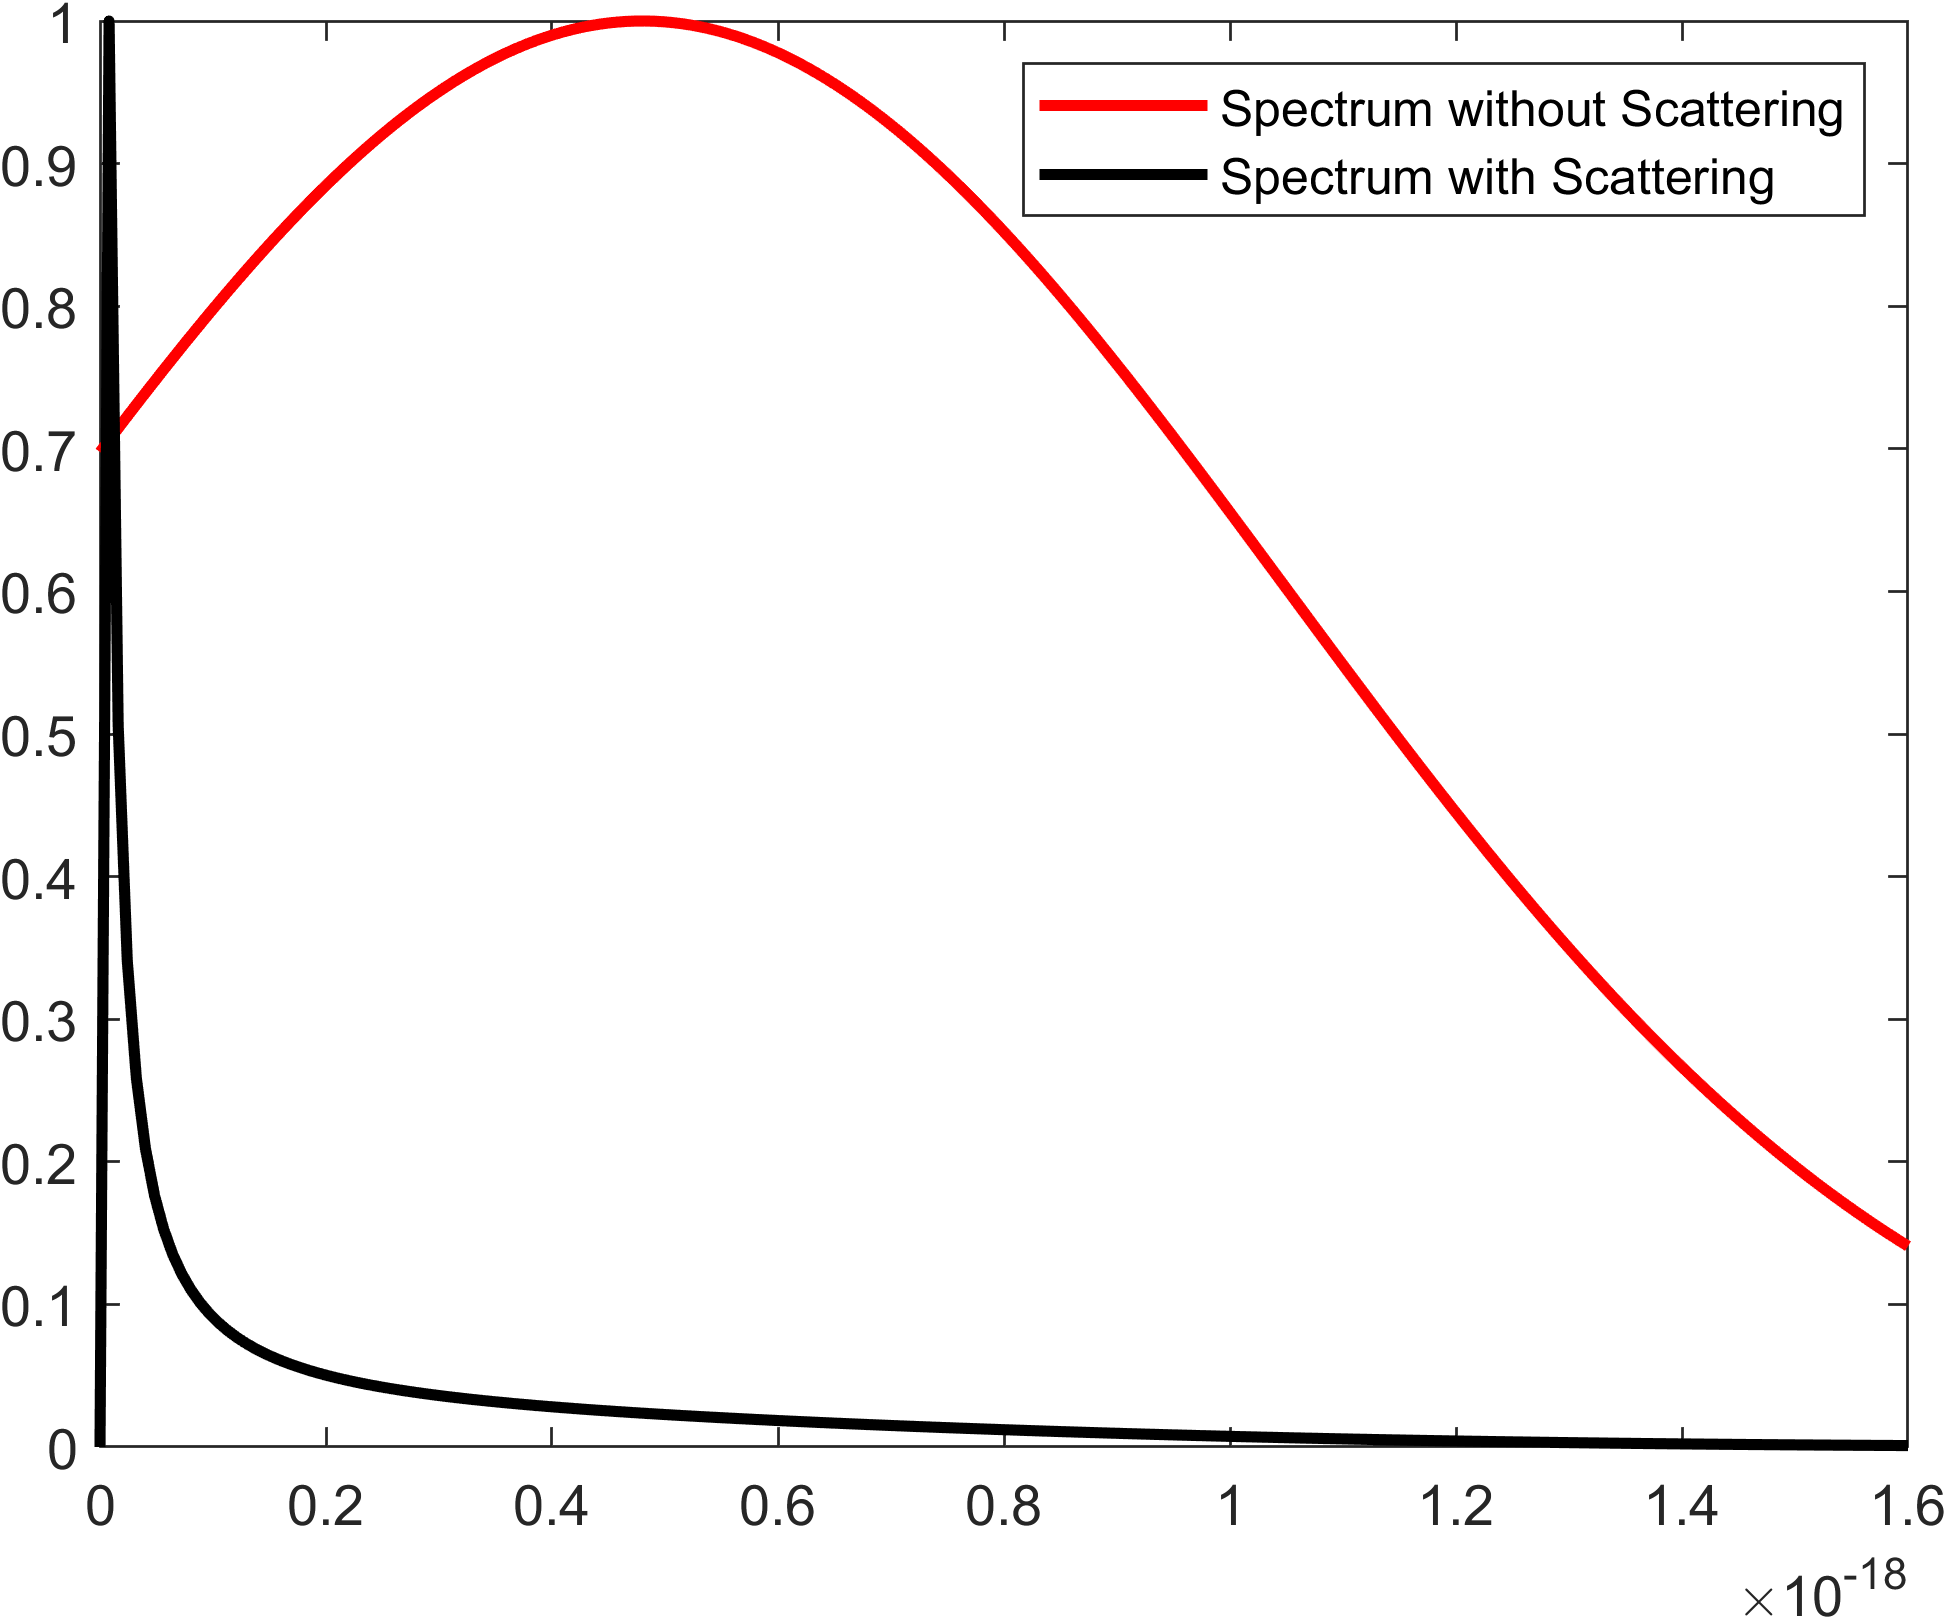
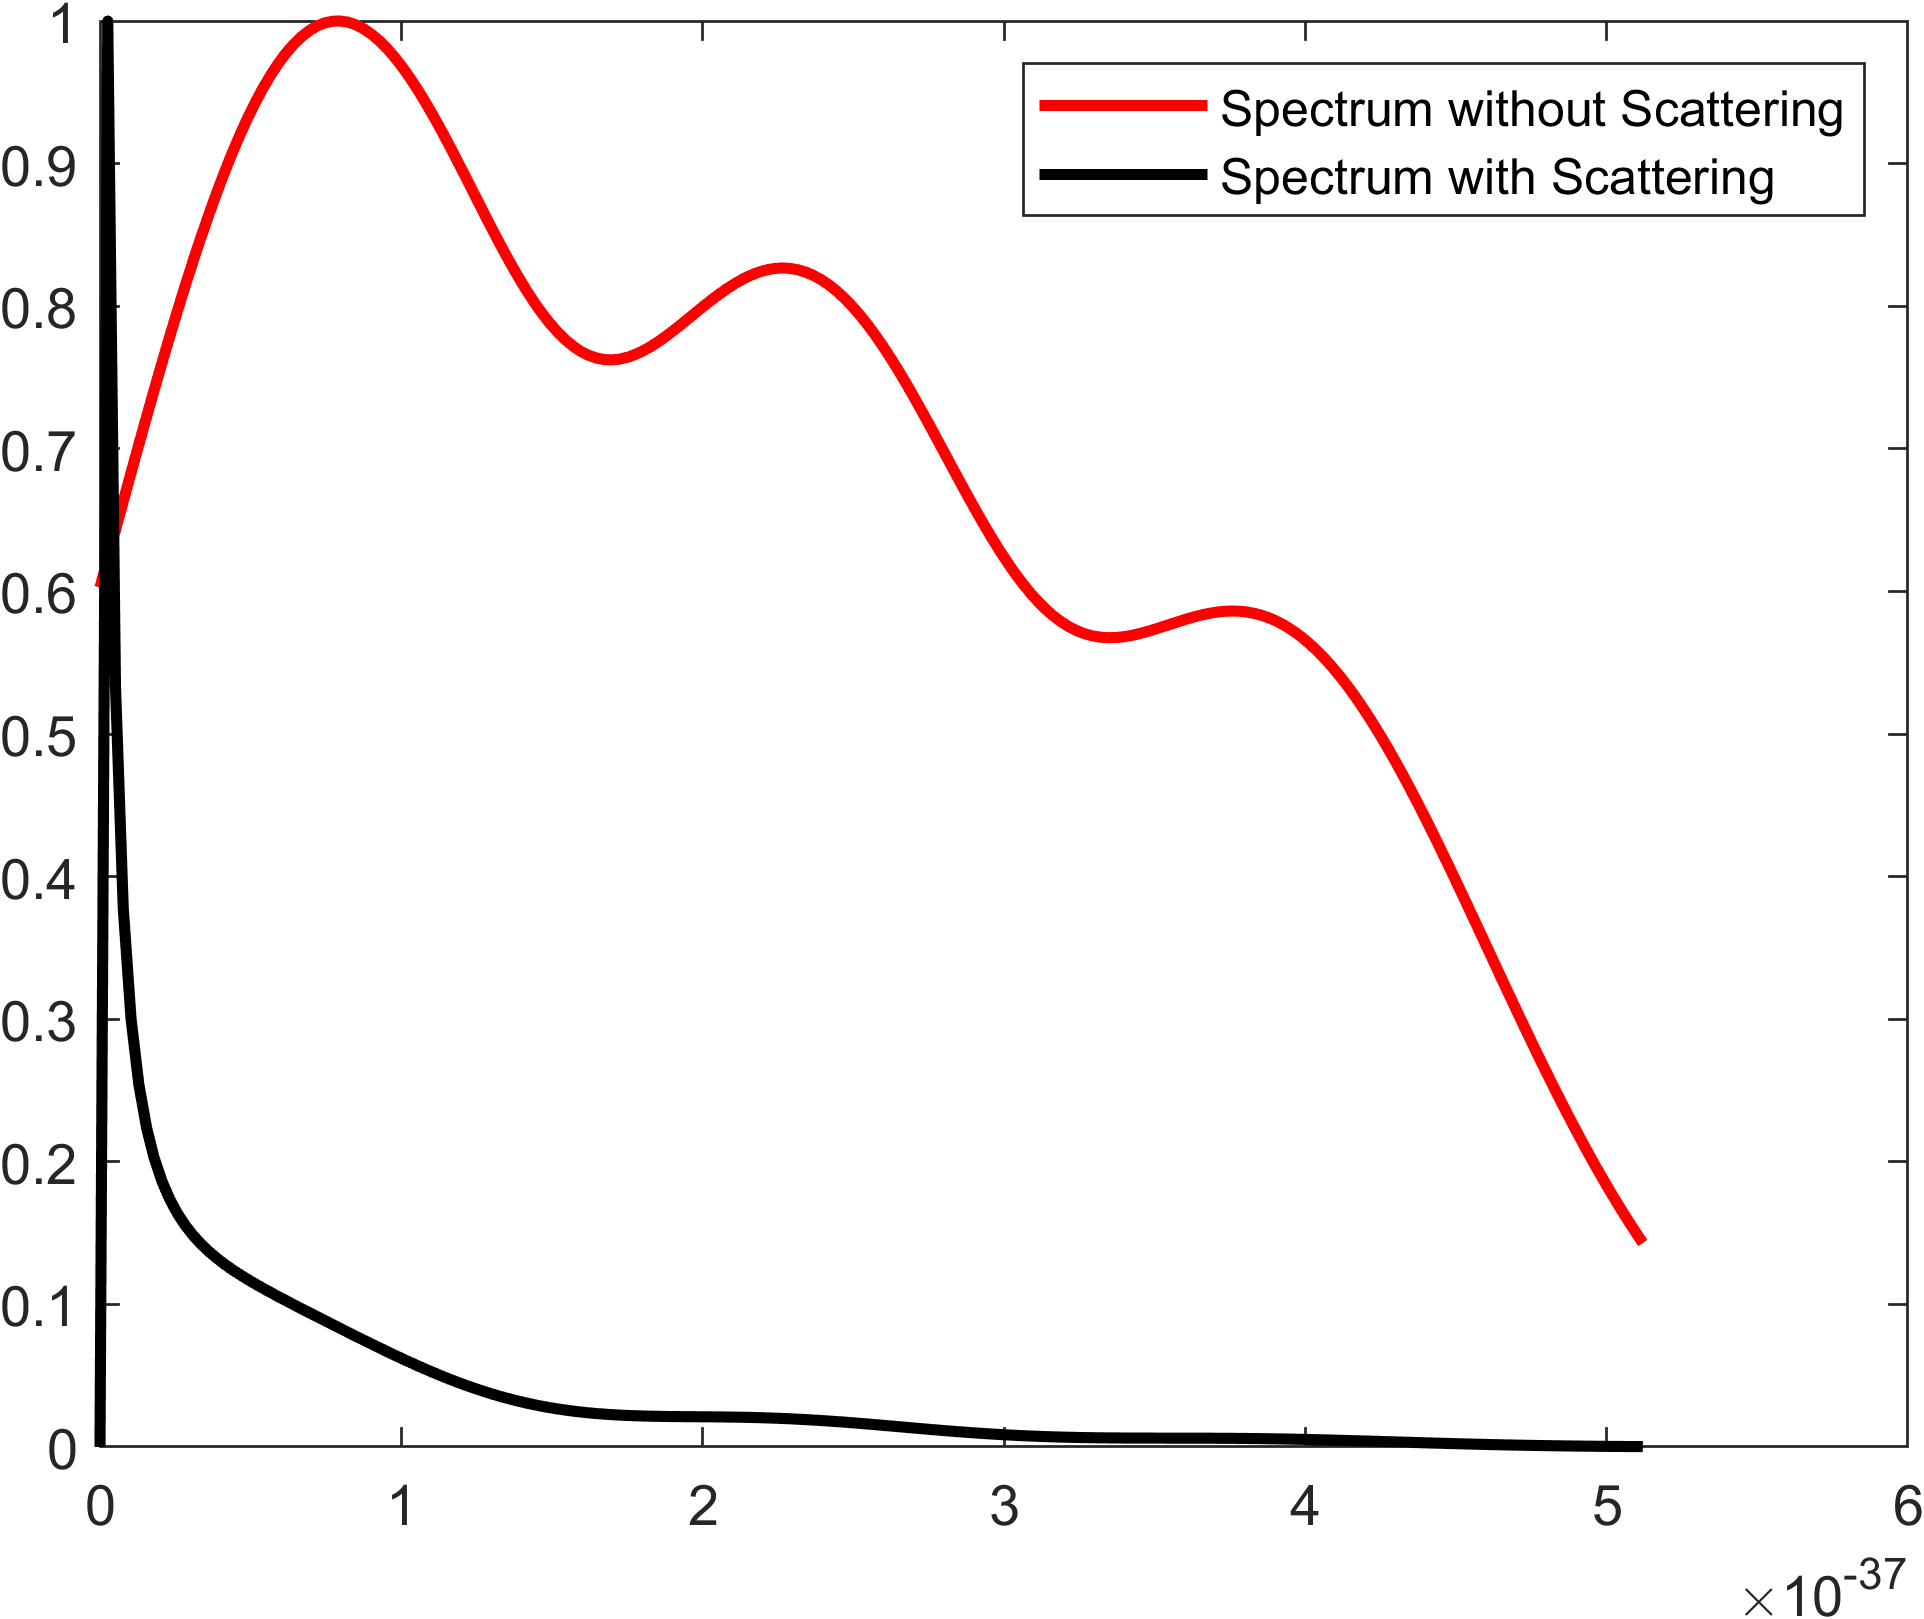
Added the position of the detector

diff --git a/scattering.m b/scattering.m
@@ -2,8 +2,12 @@ Reset;
 L=100e-9;
 x=[-L:0.1:L]*1e-9;
 y=x;
-xf=0;
-yf=L;
+
+Rf=L;                   % Detector  circle at radius Rf
+xfList=linspace(-L,L,100);  %  x points of the detector
+yfList=Rf^2-xfList.^2;      %  corresponding y points of the detector
+% xf=0;
+% yf=L;
 
 [X,Y]=meshgrid(x,y);
 R=sqrt(X.^2+y.^2);
@@ -13,19 +17,31 @@ hbar=1.05457182e-34;
 eV=1.6e-19;
 
 
-E=linspace(0,10,200)*eV;
-E0=3*eV; sigma=5*eV;
-P0=exp(-(E-E0).^2/sigma^2);
-SC=1./E;
-for i=1:length(E)
-    k=sqrt(2*m*E(i)/hbar);
-    A=SC(i)*P0(i)*(1./R.*exp(1i*k*R+ 1i*k*sqrt((xf-X).^2+(yf-Y).^2))) + 1/L*exp(1i*k*L);
-    W(i)=sum(sum(A));
-    P=abs(W);
+E=linspace(0,20,200)*eV;   
+E01=3*eV;    % Electron peak 1
+E02=9*eV;    % Electron peak 2
+E03=15*eV;   % Electron peak 3
+sigma=3*eV;  % Width of each electron peak; 
+P0=sqrt(3*exp(-(E-E01).^2/sigma^2)+  2*exp(-(E-E02).^2/sigma^2) + 1*exp(-(E-E03).^2/sigma^2)); % Initial energy spectrum
+SC=sqrt(1./E); % Scattering Cross sectionis assumed to be inversely proportional to the energy of the electron;
+
+P=zeros(size(E));  % Initilize the probabilities
+for j=1:length(xfList)
+    xf=xfList(j); % A point on the detector;
+    yf=yfList(j);
+    for i=1:length(E)
+        k=sqrt(2*m*E(i)/hbar); % Wave vector of the electron of the corresponding energy
+        % The probabiity Amplitude is the sum of the scattered wave + Initial wave 
+        A=SC(i)*P0(i)*(1./R.*exp(1i*k*R+ 1i*k*sqrt((xf-X).^2+(yf-Y).^2))) + P0(i)*1/L*exp(1i*k*Rf);
+    
+        W(i)= sum(sum(A));
+    end
+    P=P+abs(W).^2;
     P(isinf(P))=0;
 end
-plot(E, P0/max(P0), 'r', 'Linewidth', 2); hold on;
-plot(E,P/max(P), 'k','Linewidth', 2)
+plot(E*eV, P0/max(P0), 'r', 'Linewidth', 2); hold on;
+plot(E*eV,P/max(P), 'k','Linewidth', 2)
 legend('Spectrum without Scattering', 'Spectrum with Scattering')
 exportgraphics(gcf, 'Spectrum.png', Resolution=400);
+xlabel('Energy eV')
 
